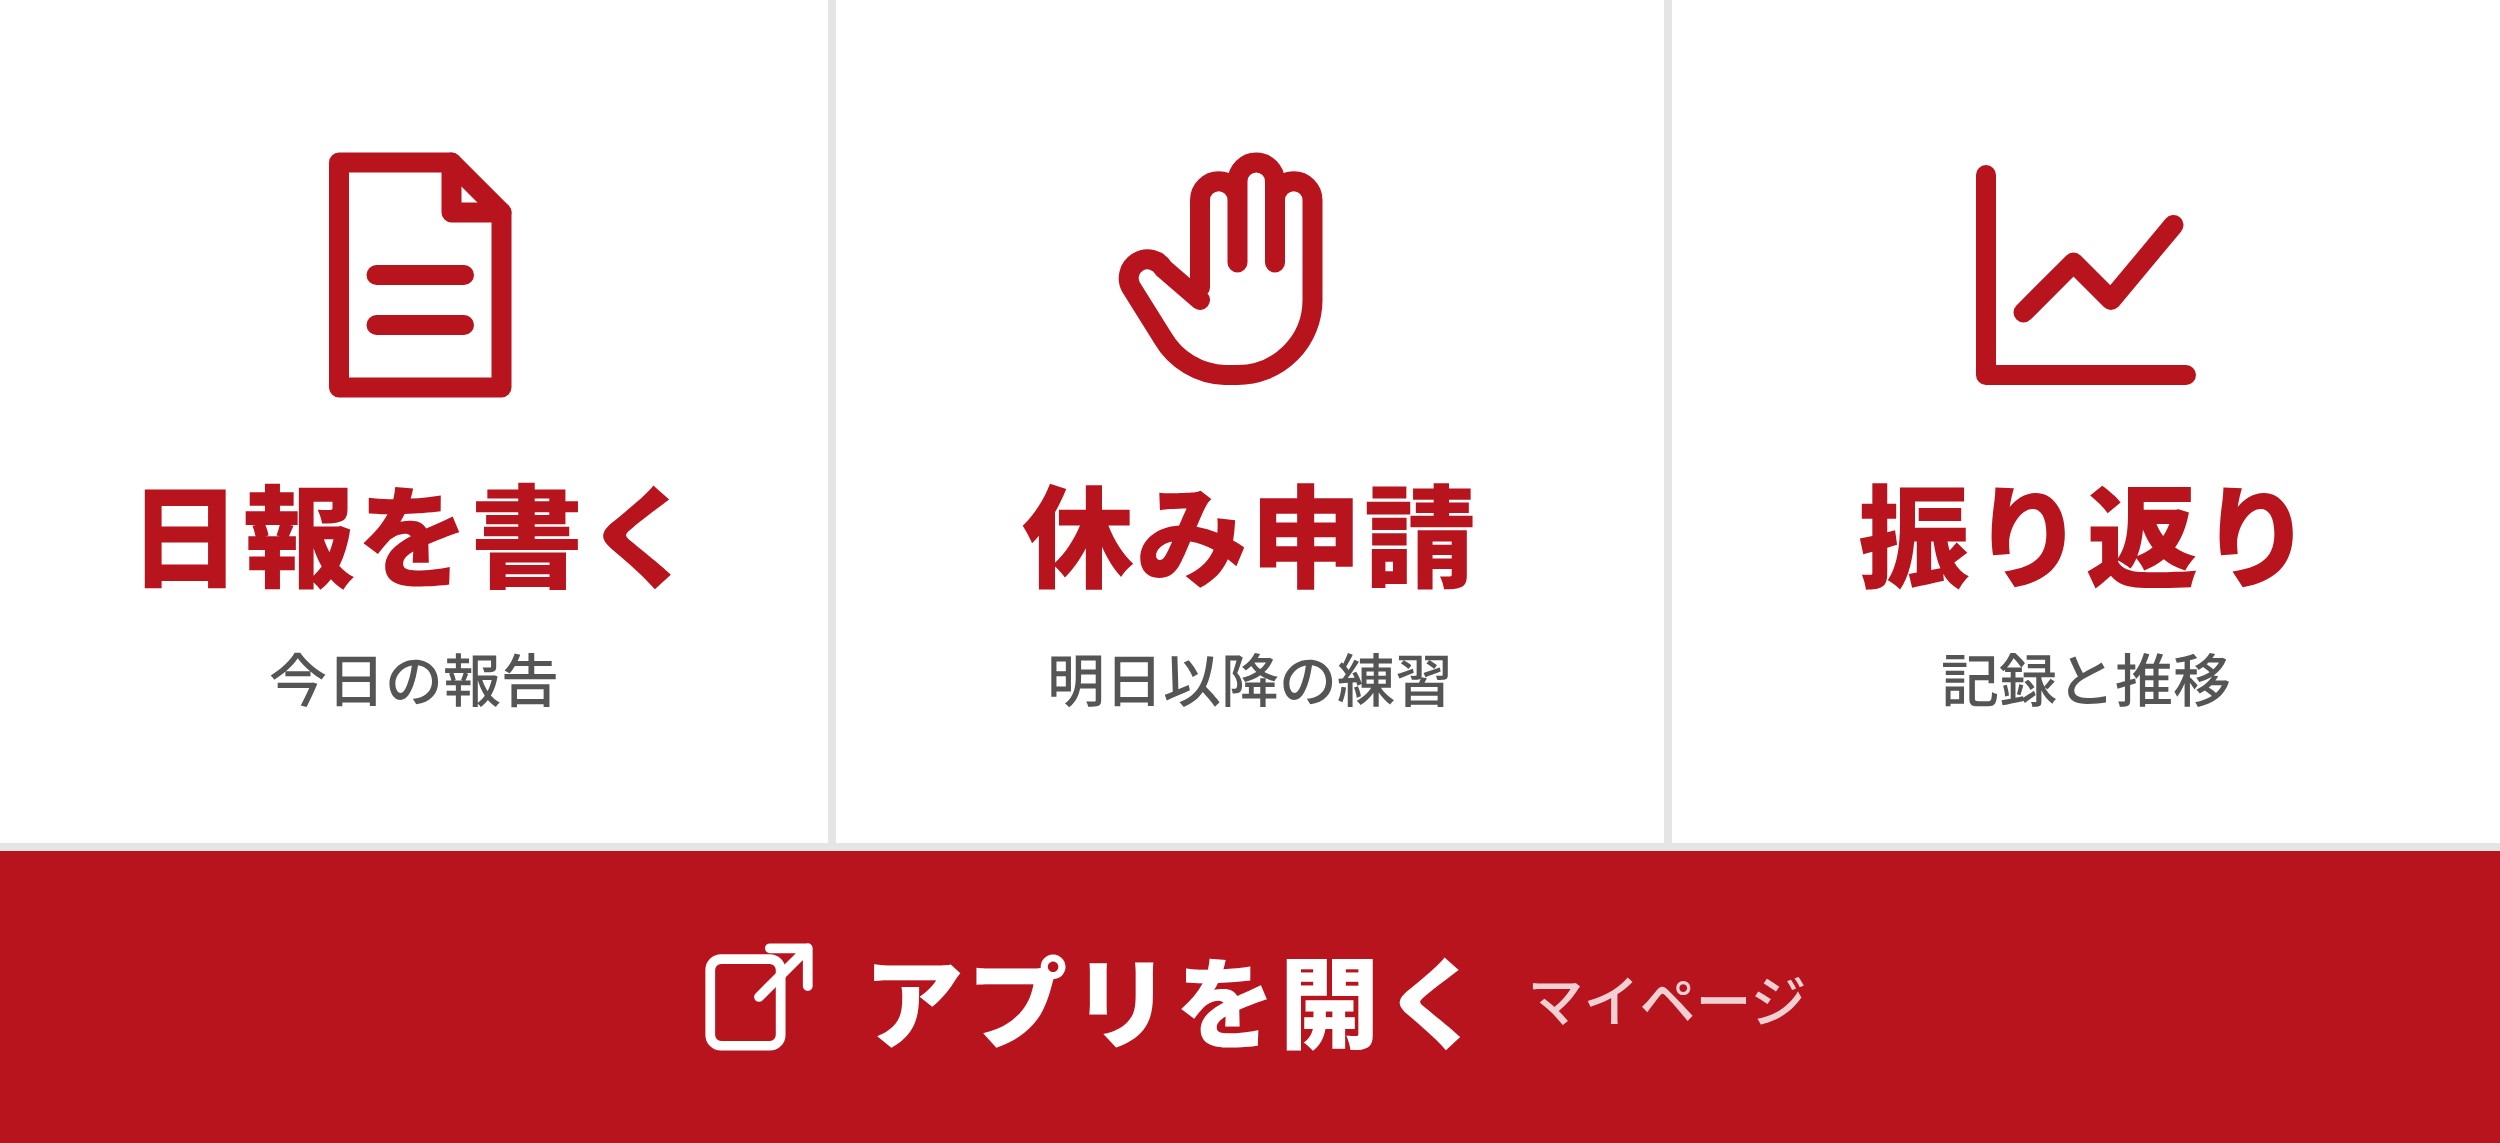
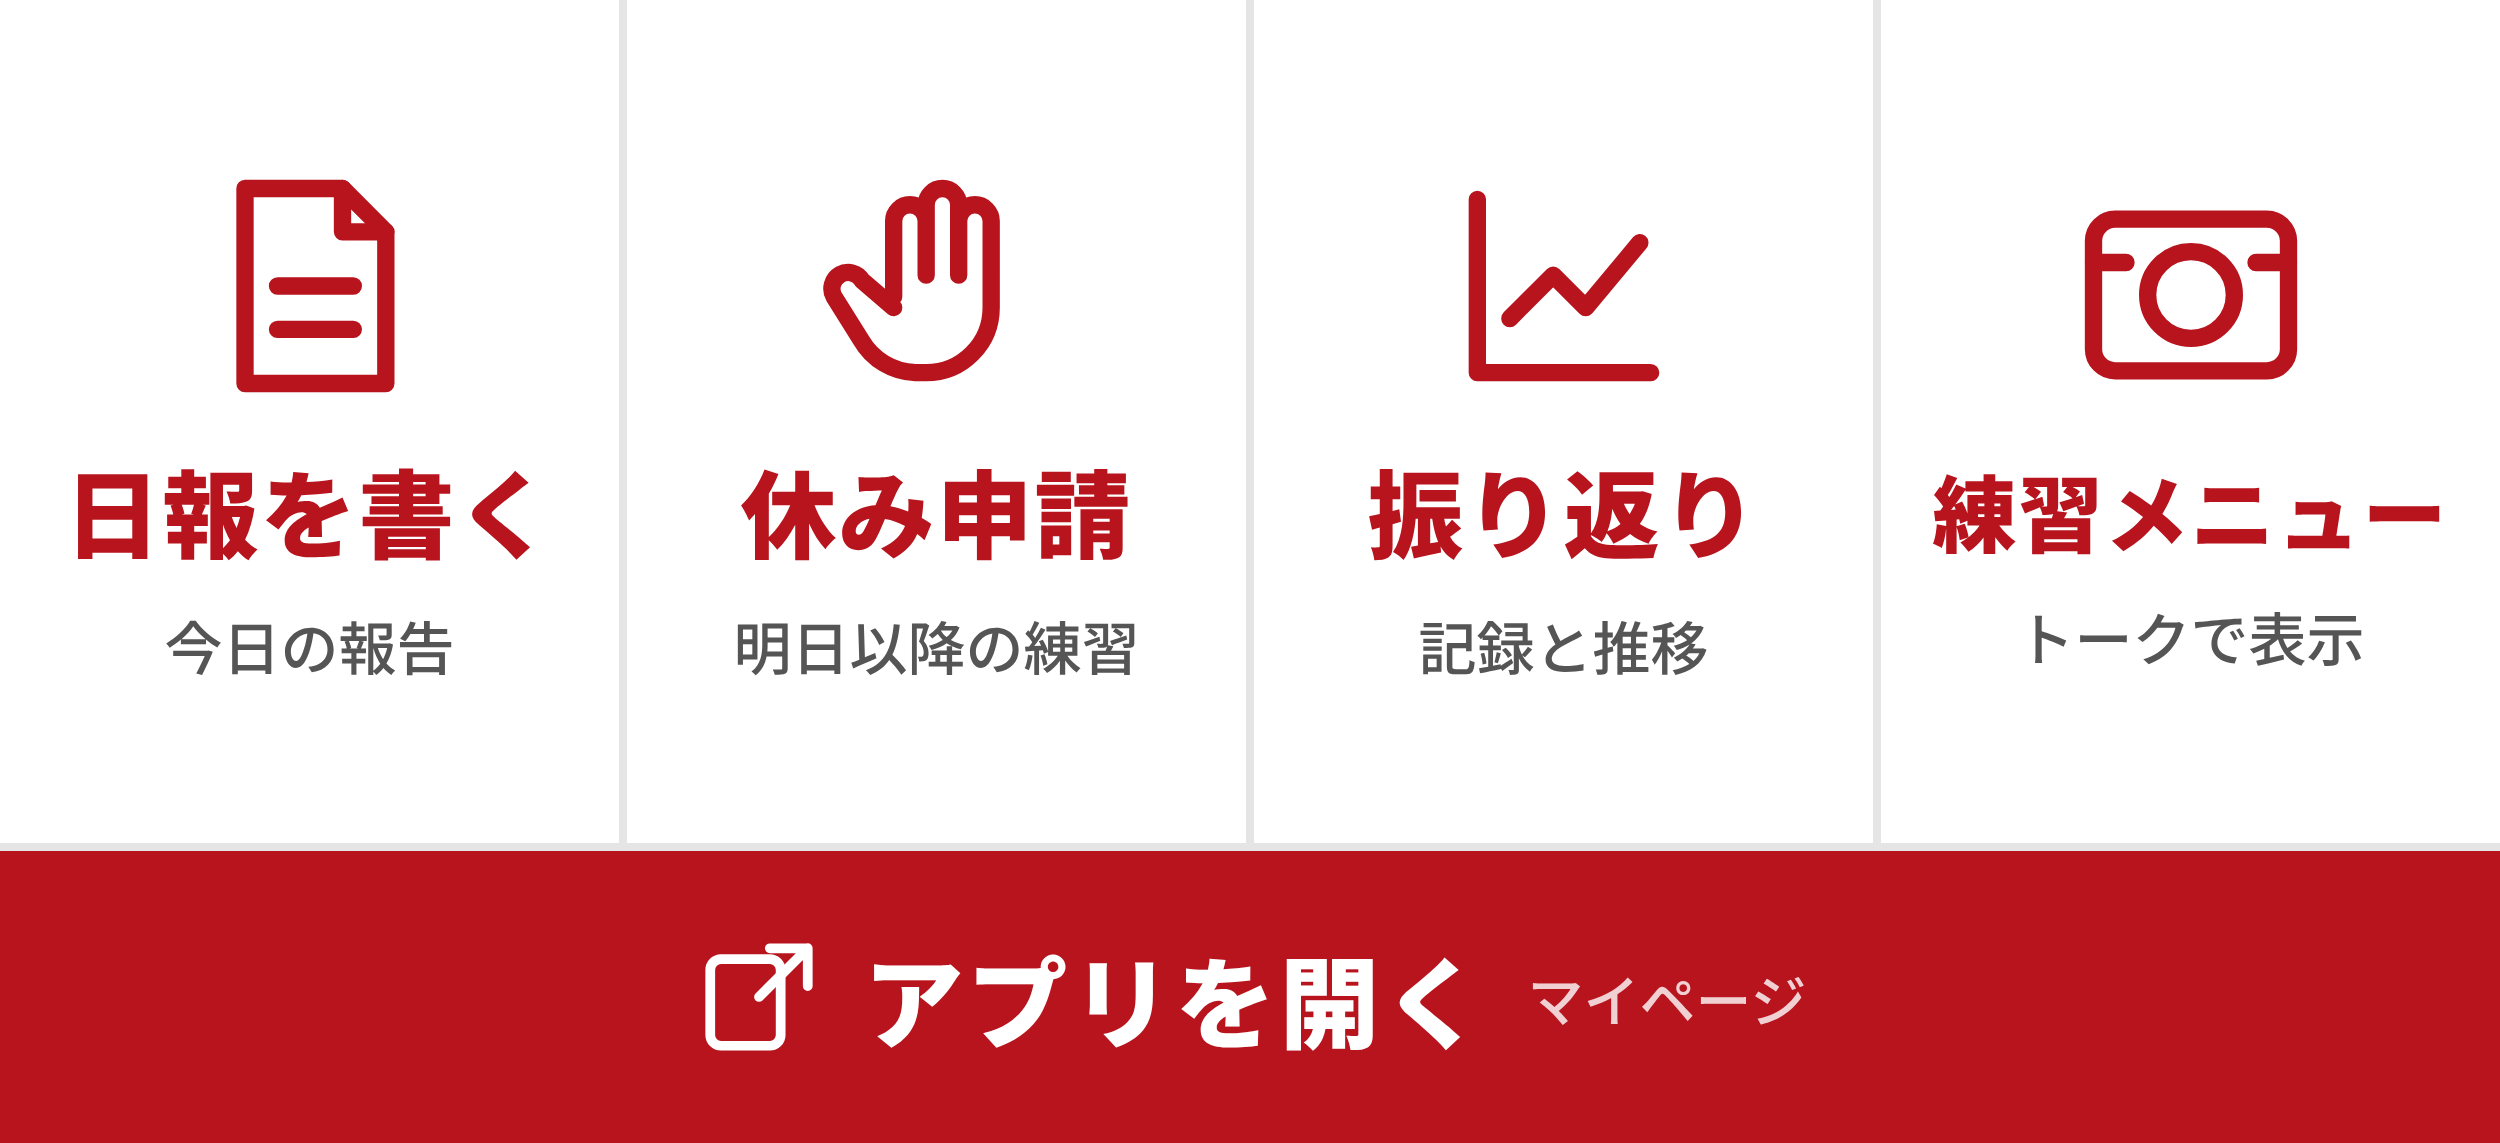
部員用リッチメニューに「練習メニュー」（トークで今日・明日のメニュー）を追加し、下の段に「アプリを開く」
- リッチメニューを「上の段3〜4ボタン＋下の段に横長ボタン」で作れるようにする
- 練習メニュー：LINE連携した部員はその拠点と合同のメニューだけ表示

Claude-Session: https://claude.ai/code/session_01BhQTxNEJL7WRsC9XPeyxR7

diff --git a/app/api/line/richmenu/route.ts b/app/api/line/richmenu/route.ts
@@ -38,15 +38,18 @@ export async function POST(request: NextRequest) {
     { type: "uri", label: "日報を書く", uri: open("/mypage") },
     { type: "uri", label: "休み申請", uri: open("/mypage?absence=1") },
     { type: "uri", label: "振り返り", uri: open("/mypage?tab=review") },
-    { type: "uri", label: "アプリを開く", uri: open("/mypage") },
+    { type: "postback", label: "練習メニュー", data: "action=menu", displayText: "練習メニュー" },
   ];
+  const memberBottom: RichMenuAction = { type: "uri", label: "アプリを開く", uri: open("/mypage") };
+
 
   const coachActions: RichMenuAction[] = [
     { type: "postback", label: "休みの報告", data: "action=pending", displayText: "休みの報告" },
     { type: "postback", label: "提出状況", data: "action=status", displayText: "提出状況" },
     { type: "postback", label: "怪我の状況", data: "action=injuries", displayText: "怪我の状況" },
-    { type: "uri", label: "アプリを開く", uri: open("/admin") },
   ];
+  const coachBottom: RichMenuAction = { type: "uri", label: "アプリを開く", uri: open("/admin") };
+
 
 
 
@@ -60,8 +63,8 @@ export async function POST(request: NextRequest) {
     );
     // 古いリッチメニューを消してから作り直す
     for (const m of await listRichMenus()) await deleteRichMenu(m.richMenuId);
-    const memberId = await createRichMenu("部員用", "メニュー", memberActions, memberImg);
-    const coachId = await createRichMenu("監督・コーチ用", "メニュー", coachActions, coachImg);
+    const memberId = await createRichMenu("部員用", "メニュー", memberActions, memberBottom, memberImg);
+    const coachId = await createRichMenu("監督・コーチ用", "メニュー", coachActions, coachBottom, coachImg);
     await setDefaultRichMenu(memberId);
     // 環境変数の宛先＋アプリとLINE連携した監督・コーチ・マネージャー
     const coaches = new Set(coachLineUserIds());

diff --git a/app/lib/dailySummary.ts b/app/lib/dailySummary.ts
@@ -343,3 +343,43 @@ export async function buildTomorrowMenuText(supabase: SupabaseClient, teamId: st
     400
   );
 }
+
+// 部員のリッチメニュー「練習メニュー」への返信：今日と明日の練習メニュー
+// loc を渡すと、その拠点と合同練習だけにしぼる
+export async function buildPracticeMenuText(
+  supabase: SupabaseClient,
+  teamId: string,
+  loc: Loc | null
+) {
+  const days = [jstDateKey(0), jstDateKey(1)];
+  const [menusRes, schedRes] = await Promise.all([
+    supabase
+      .from("menus")
+      .select("date, title, content, location, start_time, is_joint")
+      .eq("team_id", teamId)
+      .in("date", days)
+      .eq("is_off", false)
+      .order("start_time", { ascending: true }),
+    supabase.from("schedule_days").select("date, location, is_off").eq("team_id", teamId).in("date", days),
+  ]);
+  const menus = (menusRes.data ?? []) as (MenuRow & { date: string })[];
+  const sched = (schedRes.data ?? []) as { date: string; location: Loc; is_off: boolean }[];
+  const out: string[] = [`🥋 練習メニュー${loc ? `（${LOC_LABEL[loc]}）` : ""}`];
+  days.forEach((d, i) => {
+    out.push("", `▪${i === 0 ? "今日" : "明日"} ${mdw(d)}`);
+    const list = menus.filter((m) => m.date === d && (!loc || m.is_joint || m.location === loc));
+    if (list.length === 0) {
+      const off = sched.some((s) => s.date === d && s.is_off && (!loc || s.location === loc));
+      out.push(off ? "オフ" : "まだ登録されていません");
+      return;
+    }
+    for (const m of list) {
+      const where = m.is_joint ? "合同" : loc ? "" : LOC_LABEL[m.location];
+      out.push(
+        `・${m.start_time ? m.start_time.slice(0, 5) + " " : ""}${m.title?.trim() || "マット練習"}${where ? `（${where}）` : ""}`
+      );
+      if (m.content?.trim()) out.push(m.content.trim().slice(0, 600));
+    }
+  });
+  return out.join("\n");
+}

diff --git a/app/api/line/webhook/route.ts b/app/api/line/webhook/route.ts
@@ -2,7 +2,7 @@ import { NextRequest, NextResponse } from "next/server";
 import { createClient, type SupabaseClient } from "@supabase/supabase-js";
 import { lineConfigured, lineReply, verifyLineSignature, type LineMessage } from "../../../lib/line";
 import { approve, findStaff, replyInjuries, replyPending, replyStatus } from "../../../lib/lineCoach";
-import { buildDailySummary, buildTomorrowMenuText } from "../../../lib/dailySummary";
+import { buildDailySummary, buildPracticeMenuText, buildTomorrowMenuText } from "../../../lib/dailySummary";
 import { appButton } from "../../../lib/liffConfig";
 
 // アプリのデータを読む（サービスロール。無い環境では null）
@@ -34,6 +34,17 @@ async function handleAction(
   if (!ctx) return [{ type: "text", text: NOT_READY }];
   const { admin, teamId } = ctx;
 
+  if (action === "menu") {
+    // LINE連携した部員なら、その拠点のメニューだけ
+    const { data: me } = userId
+      ? await admin.from("profiles").select("home_location").eq("line_user_id", userId).maybeSingle()
+      : { data: null };
+    const loc = ((me as { home_location: "tama" | "otsuka" | null } | null)?.home_location ?? null);
+    return [
+      { type: "text", text: await buildPracticeMenuText(admin, teamId, loc) },
+      appButton("/board", "練習予定表はアプリで確認できます"),
+    ];
+  }
   if (action === "menu_tomorrow") {
     return [{ type: "text", text: await buildTomorrowMenuText(admin, teamId) }, appButton("/board", "練習予定表はアプリで確認できます")];
   }
@@ -64,6 +75,7 @@ async function handleAction(
 // トークに直接打った言葉でも同じ返事をする
 const KEYWORDS: Record<string, string> = {
   明日のメニュー: "menu_tomorrow",
+  練習メニュー: "menu",
   今日のまとめ: "summary",
   承認待ち: "pending",
   休みの報告: "pending",

diff --git a/app/lib/line.ts b/app/lib/line.ts
@@ -72,24 +72,24 @@ export type RichMenuAction =
   | { type: "postback"; label: string; data: string; displayText?: string };
 
 // リッチメニューを作り、画像を載せて、IDを返す。
-// - ボタン3つ：1段（2500×843）
-// - ボタン4つ：上に3つ並べ、4つ目を下の段に横長で（2500×1143）
-// - ボタン6つ：3列×2段（2500×1686）
-export async function createRichMenu(name: string, chatBarText: string, actions: RichMenuAction[], image: ArrayBuffer) {
-  const W = [0, 833, 1667, 2500];
+// 上の段にボタンを横に並べ（3つか4つ）、bottom があれば下の段に横長のボタンを置く。
+// 高さ：上の段 843、下の段 300（2500×843 または 2500×1143）
+export async function createRichMenu(
+  name: string,
+  chatBarText: string,
+  top: RichMenuAction[],
+  bottom: RichMenuAction | null,
+  image: ArrayBuffer
+) {
   const TOP = 843;
-  const height = actions.length <= 3 ? TOP : actions.length === 4 ? TOP + 300 : TOP * 2;
-  const areas = actions.map((action, i) => {
-    if (actions.length === 4 && i === 3) {
-      return { bounds: { x: 0, y: TOP, width: 2500, height: height - TOP }, action };
-    }
-    const r = Math.floor(i / 3);
-    const c = i % 3;
-    return {
-      bounds: { x: W[c], y: r * TOP, width: W[c + 1] - W[c], height: TOP },
-      action,
-    };
-  });
+  const height = bottom ? TOP + 300 : TOP;
+  const n = top.length;
+  const xs = Array.from({ length: n + 1 }, (_, i) => Math.round((2500 * i) / n));
+  const areas = top.map((action, i) => ({
+    bounds: { x: xs[i], y: 0, width: xs[i + 1] - xs[i], height: TOP },
+    action,
+  }));
+  if (bottom) areas.push({ bounds: { x: 0, y: TOP, width: 2500, height: height - TOP }, action: bottom });
   const created = (await api("POST", `${API}/richmenu`, {
     size: { width: 2500, height },
     selected: true,
